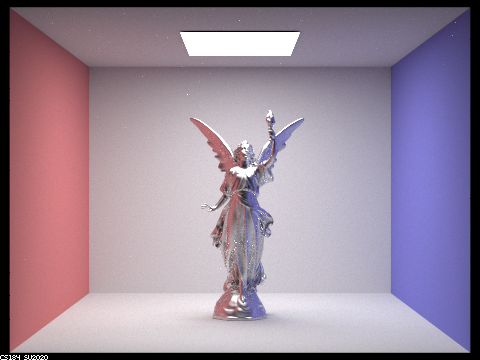
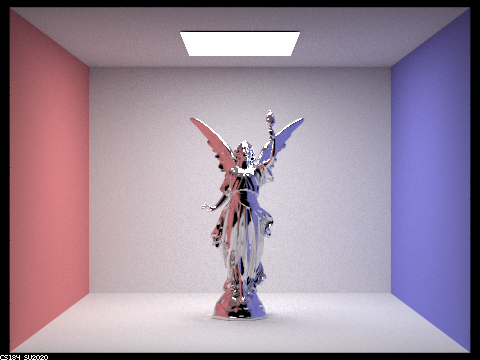
oops left in cos for lucy renders

Changed region(s): [[0.4375, 0.3361, 0.625, 0.8861], [0.5312, 0.3056, 0.5625, 0.3361]]

diff --git a/proj3-2/index.md b/proj3-2/index.md
@@ -109,7 +109,7 @@ Finally, here are two more materials (mercury and cobalt).
 
 Mercury | Cobalt
  :---------------------:|:----------------------:
-  $$\eta = (1.8795, 1.5472, 1.1353)$$, $$k = (5.1076, 4.6437, 3.9980)$$  |  $$\eta = (2.1849, 2.0500, 1.7925)$$, $$k = (4.0971, 3.8200, 3.3775)$$
+  $$\alpha = 0.015$$<br>$$\eta = (1.8795, 1.5472, 1.1353)$$<br>$$k = (5.1076, 4.6437, 3.9980)$$  | $$\alpha=0.25$$<br>$$\eta = (2.1849, 2.0500, 1.7925)$$<br>$$k = (4.0971, 3.8200, 3.3775)$$
  ![](task2/lucy_hg.png)  |  ![](task2/lucy_co.png)
 
 Disappointingly, they both just look silver-ish.
